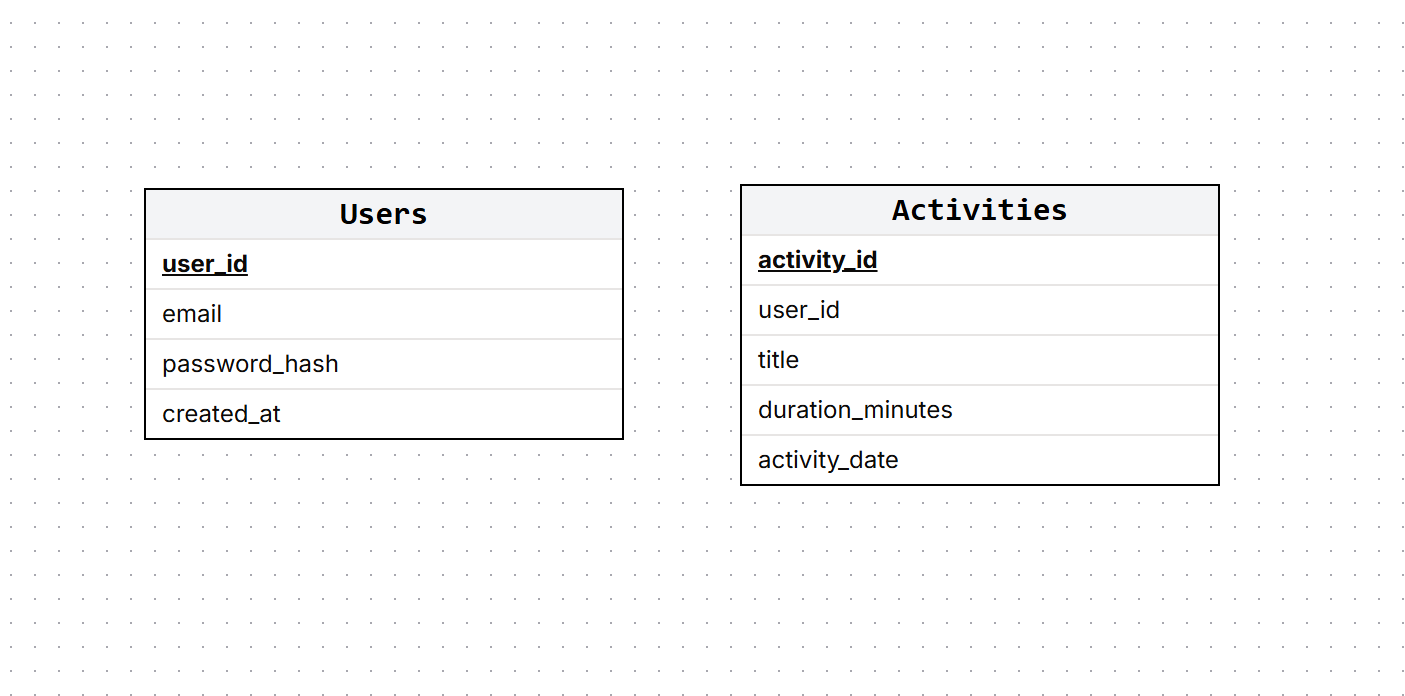
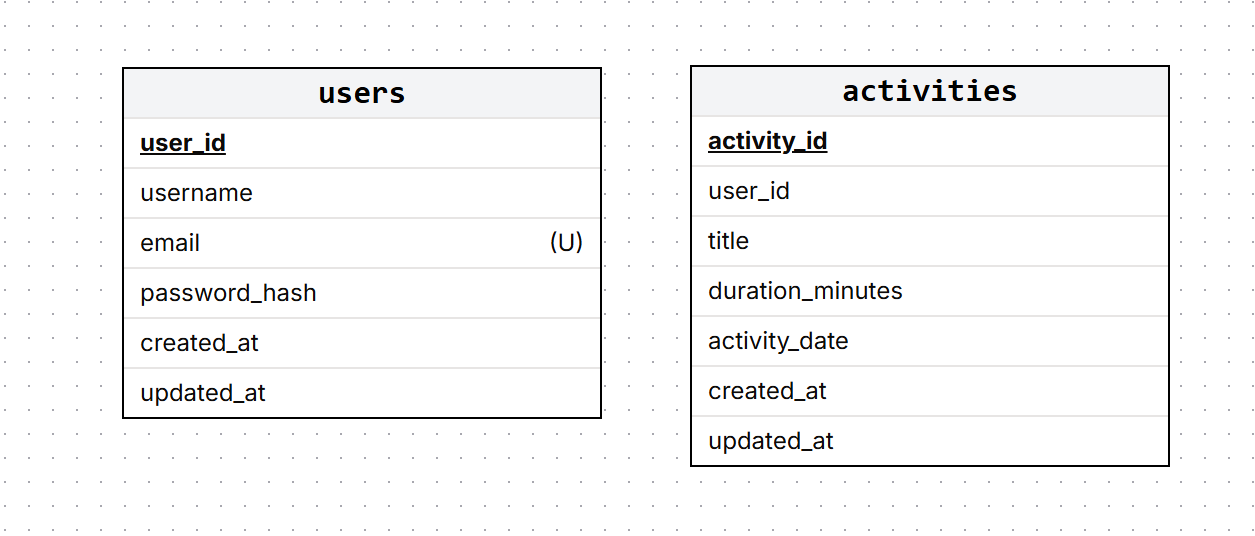
Altered routes for RESTful design and updated db schema image to match actual db

diff --git a/src/routes/users.routes.js b/src/routes/users.routes.js
@@ -12,7 +12,9 @@ const bcrypt = require('bcrypt');
 router.get('/', async (req, res) => {
     try {
         const result = await db.query('SELECT user_id, username, email FROM users');
+
         res.json(result.rows);
+
     } catch (error) {
         console.error(error);
         res.status(500).json({ error: 'Database error'});
@@ -21,7 +23,7 @@ router.get('/', async (req, res) => {
 
 // Create a new user & hash password
 router.post('/', async (req, res) => {
-    console.log("POST /users HIT");
+    //console.log("POST /users HIT");
     const { username, email, password } = req.body;
     try {
         const saltRounds = 10;
@@ -31,7 +33,9 @@ router.post('/', async (req, res) => {
             'INSERT INTO users (username, email, password_hash) VALUES ($1, $2, $3) RETURNING user_id, username, email',
             [username, email, passwordHash]
         );
+
         res.status(201).json(result.rows[0]);
+
     } catch (error) {
         console.error("DB Error", error);
         res.status(500).json({ 
@@ -52,7 +56,9 @@ router.get('/:username', async (req, res) => {
         if (result.rows.length === 0) {
             return res.status(404).json({ error: 'User not found'});
         }
+
         res.json(result.rows[0]);
+
     } catch (error) {
         console.error(error);
         res.status(500).json({ error: 'Database error'});

diff --git a/src/routes/activities.routes.js b/src/routes/activities.routes.js
@@ -23,14 +23,17 @@ router.get('/:userId', async (req, res) => {
 });
 
 // Add a new activity for a user
-router.post('/', async (req, res) => {
+router.post('/:userId/activities', async (req, res) => {
     const { userId } = req.params;
-    const { name, description, duration, date } = req.body;
+    const { name, duration, date } = req.body;
     try {
         const result = await db.query(
-            'INSERT INTO activities (activity_id, user_id, title, duration_minutes, activity_date) VALUES ($1, $2, $3, $4, $5) RETURNING activity_id, title, duration_minutes, activity_date',
-            [userId, name, description, duration, date]
+            'INSERT INTO activities (user_id, title, duration_minutes, activity_date) VALUES ($1, $2, $3, $4) RETURNING activity_id, title, duration_minutes, activity_date',
+            [userId, name, duration, date]
         );
+
+        res.status(201).json(result.rows[0]);
+
     } catch (error) {
         console.error(error);
         res.status(500).json({ error: 'Database error'});
